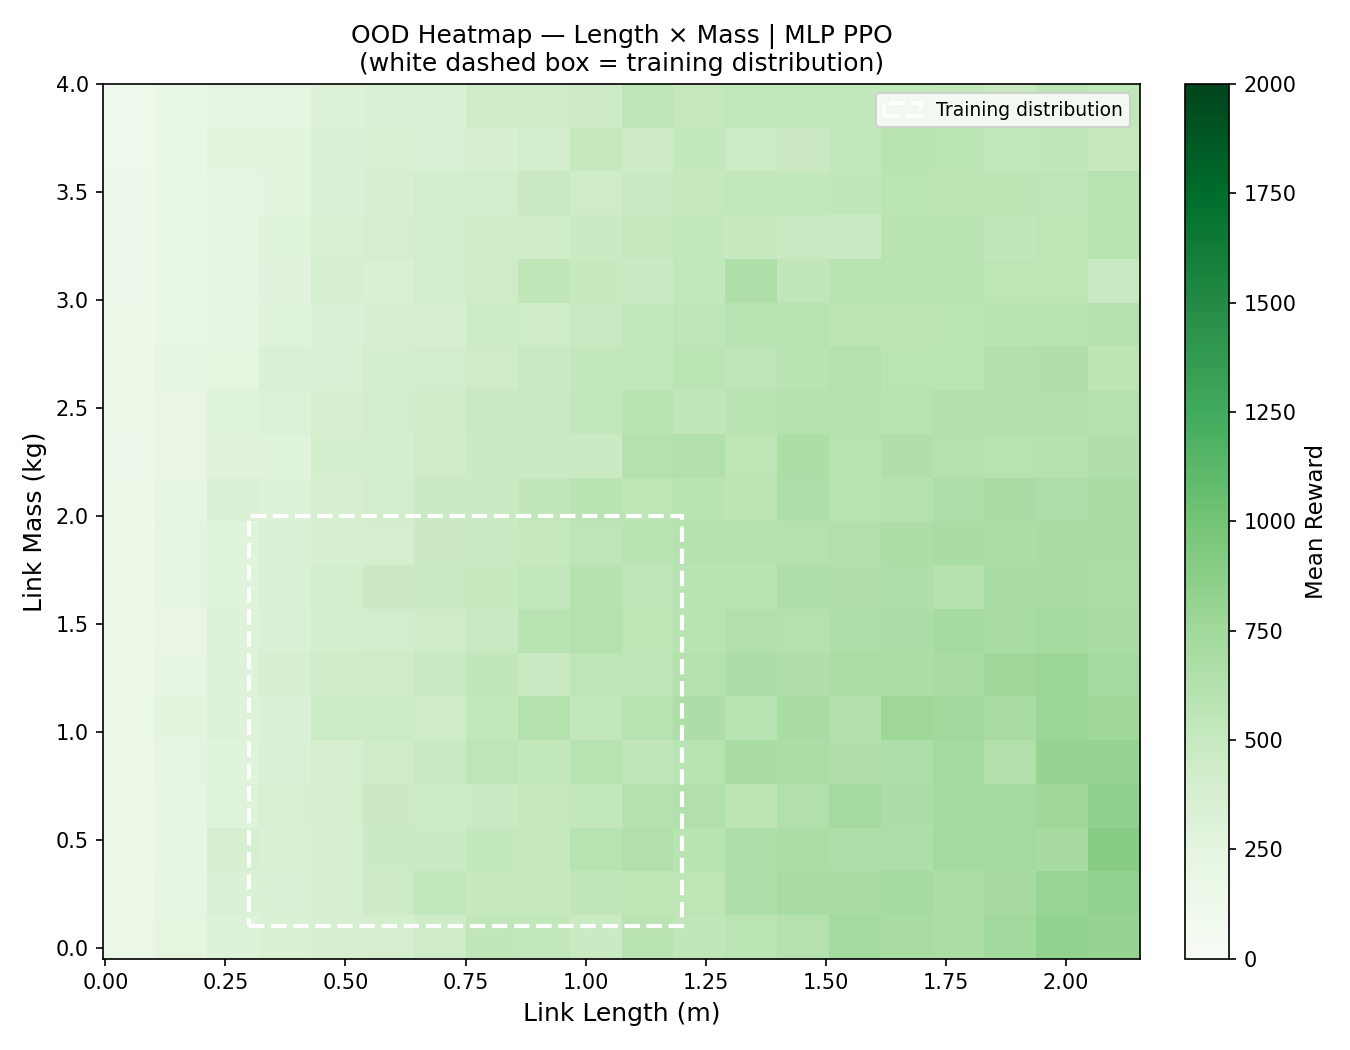
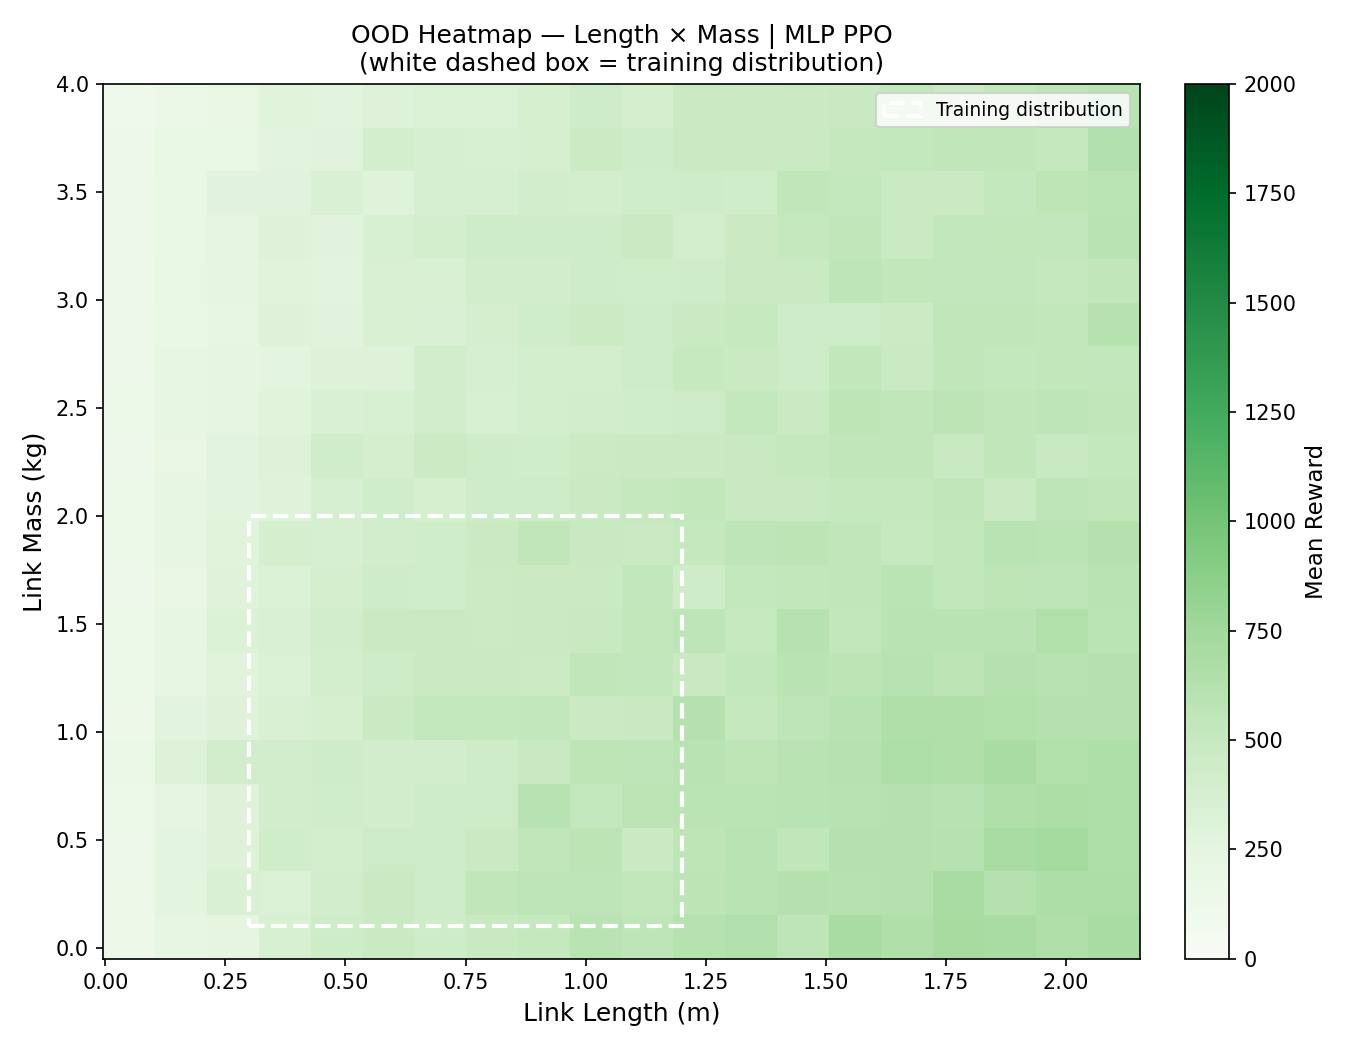
update observation space for cart mass

diff --git a/training/train_dqn.py b/training/train_dqn.py
@@ -34,13 +34,13 @@ class ReplayBuffer:
         max_e = max_edges
 
         # pre-allocate all arrays up front for speed
-        self.node_feat      = np.zeros((capacity, max_n, 8),  dtype=np.float32)
+        self.node_feat      = np.zeros((capacity, max_n, 9),  dtype=np.float32)
         self.edge_index     = np.zeros((capacity, 2, max_e),  dtype=np.int64)
         self.edge_feat      = np.zeros((capacity, max_e, 2),  dtype=np.float32)
         self.n_nodes        = np.zeros((capacity, 1),          dtype=np.int64)
         self.n_edges        = np.zeros((capacity, 1),          dtype=np.int64)
 
-        self.next_node_feat = np.zeros((capacity, max_n, 8),  dtype=np.float32)
+        self.next_node_feat = np.zeros((capacity, max_n, 9),  dtype=np.float32)
         self.next_edge_index= np.zeros((capacity, 2, max_e),  dtype=np.int64)
         self.next_edge_feat = np.zeros((capacity, max_e, 2),  dtype=np.float32)
         self.next_n_nodes   = np.zeros((capacity, 1),          dtype=np.int64)